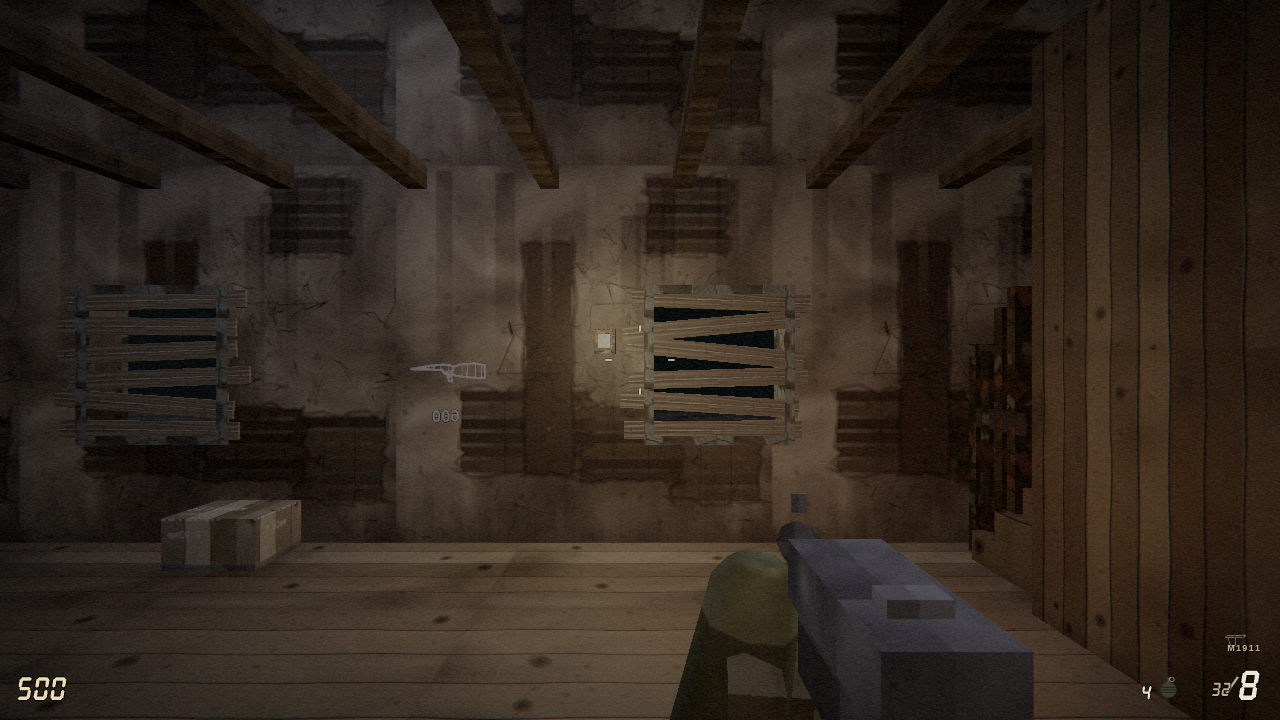
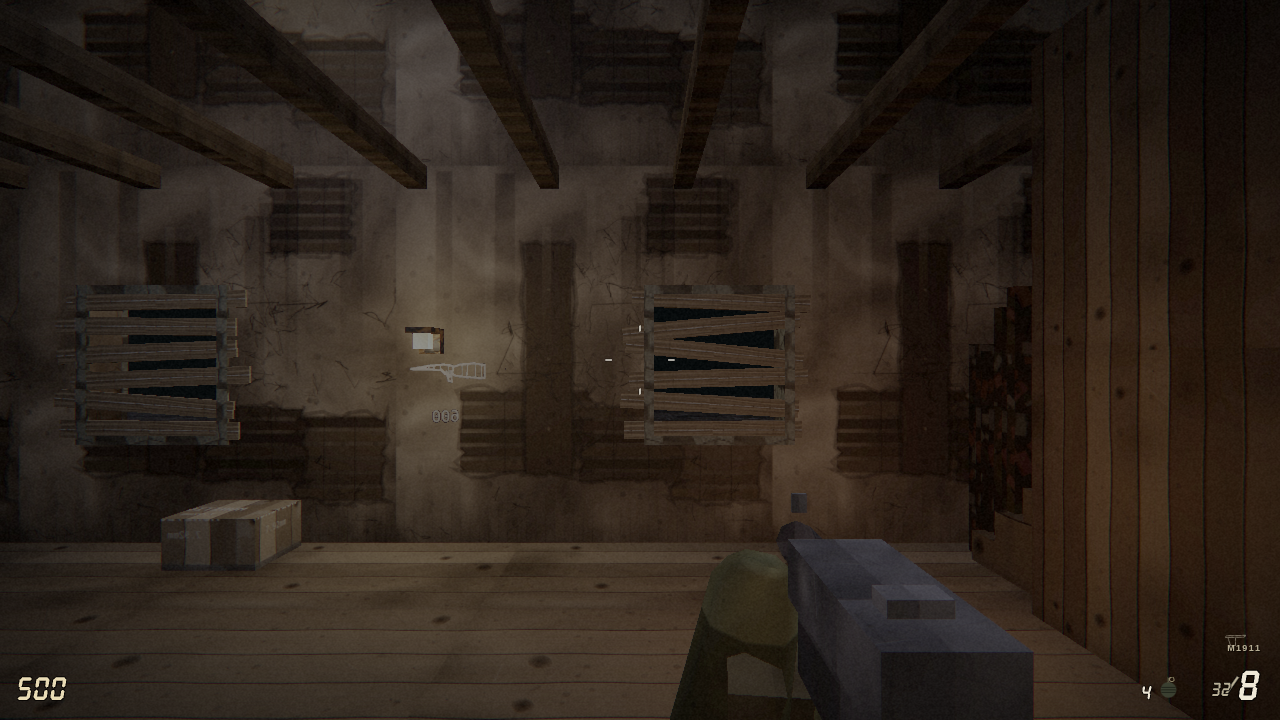
feat: spread the sconces to every room, and stop putting them on windows
Round nine's finding was that the previous round spent its whole fixture
budget on the one room that already had the most light — three sconces all
went into the main hall, which already had main_bulb, west_bulb and
sw_embers, while the HELP room's Gewehr43 wall gates a 600-point weapon
with no warm source anywhere near it. The fix pattern was right; it just
was not applied map-wide. Seven more sconces: a second on the main hall's
north wall, and one each for HELP (x2), north-east, south-east, east upper
and the catwalk.

The first placement pass put three of them straight onto a window — n5, w1
and s1 — because I picked positions off room extents instead of off the
window list. It only surfaced because one screenshot happened to frame the
HELP room fixture sitting inside a boarded window. check-level.mjs now
asserts that no sconce sits within a metre of any window, so this cannot
recur silently; every position is now chosen in a gap between two windows.

The fittings also gained a shade and a slightly larger glass. At 0.096 m
across with nothing above them they read as a bright dot rather than a
lamp, which defeated the point of mounting them at eye height.

One thing round nine got wrong, and it changed the fix: it read the stated
"world 6792 tris" as a ceiling and recommended a lights-only workaround to
preserve headroom. That was a measurement, not a budget — 7k world
triangles is nothing, and the whole scene at round 15 is 33k. Draw calls
[…]

diff --git a/nacht_der_untoten.artifact.html b/nacht_der_untoten.artifact.html
@@ -7831,7 +7831,7 @@ Z.assert = function (cond, msg) {
 }());
 
 
-/* ============================ 09_level.js (818 lines) ============================ */
+/* ============================ 09_level.js (841 lines) ============================ */
 // ---------------------------------------------------------------------------
 // 09_level.js — Nacht der Untoten.
 //
@@ -8399,9 +8399,9 @@ Z.assert = function (cond, msg) {
     }
 
     // Window n1, the Kar98k corridor, had no flanking clutter at all.
-    clutter([-9.35, 0, Z0 + 0.14], [-8.62, 0.42, Z0 + 0.74], 'crate_wood',
+    clutter([-9.55, 0, Z0 + 0.14], [-8.92, 0.42, Z0 + 0.74], 'crate_wood',
       { uvScale: 1.15, lowProfile: true });
-    clutter([-9.2, 0.42, Z0 + 0.2], [-8.7, 0.80, Z0 + 0.68], 'crate_wood', { uvScale: 1.35 });
+    clutter([-9.42, 0.42, Z0 + 0.2], [-8.98, 0.80, Z0 + 0.68], 'crate_wood', { uvScale: 1.35 });
     clutter([-6.55, 0, Z0 + 0.16], [-6.05, 0.40, Z0 + 0.66], 'crate_wood',
       { uvScale: 1.25, lowProfile: true });
 
@@ -8503,16 +8503,39 @@ Z.assert = function (cond, msg) {
       box([Math.min(x, ax) - 0.018, y + 0.02, Math.min(z, az) - 0.018],
         [Math.max(x, ax) + 0.018, y + 0.055, Math.max(z, az) + 0.018],
         'barrel_metal', { uvScale: 6, solid: false });
-      // glass, self-lit
+      // glass, self-lit, with a shade over it — at 0.096 m across and no
+      // shade the fitting read as a bright dot rather than a lamp from across
+      // the room, which was the whole point of putting it at eye height.
       const gx = x + n[0] * 0.19, gz = z + n[2] * 0.19;
-      box([gx - 0.048, y - 0.055, gz - 0.048], [gx + 0.048, y + 0.052, gz + 0.048],
+      box([gx - 0.062, y - 0.070, gz - 0.062], [gx + 0.062, y + 0.062, gz + 0.062],
         'bulb_glass', { uvScale: 1, solid: false });
+      box([gx - 0.105, y + 0.062, gz - 0.105], [gx + 0.105, y + 0.108, gz + 0.105],
+        'barrel_metal', { uvScale: 4, solid: false });
       lights.push({ pos: [gx, y, gz], color: [1.00, 0.68, 0.31], radius: 7.6,
         intensity: 1.30, flicker: 0.30, name: name });
     }
+    // Placed in the gaps BETWEEN windows. First pass put three of these on top
+    // of a window each — n5, w1 and s1 — because the positions were picked off
+    // room extents rather than off the window list.
+    // north wall, main: windows at -7.6, -3.4, 0.6
     sconce(-1.4, 1.78, Z0 + 0.12, [0, 0, 1], 'hall_sconce_n');
-    sconce(X0 + 0.12, 1.78, -4.6, [1, 0, 0], 'hall_sconce_w');
-    sconce(-5.2, 1.78, Z1 - 0.12, [0, 0, -1], 'hall_sconce_s');
+    sconce(-5.5, 1.78, Z0 + 0.12, [0, 0, 1], 'hall_sconce_n2');
+    // west wall, main: windows at z -4.6 and 0.4
+    sconce(X0 + 0.12, 1.78, -2.1, [1, 0, 0], 'hall_sconce_w');
+    // south wall, main: windows at -6.2 and -1.2
+    sconce(-3.7, 1.78, Z1 - 0.12, [0, 0, -1], 'hall_sconce_s');
+    // The other rooms had the same structural problem and none of the fix.
+    // The HELP room's Gewehr43 wall in particular gates a 600-point weapon
+    // and had no warm source anywhere near it.
+    // HELP room north wall: windows at -6.0 and -1.0
+    sconce(-3.5, UP + 1.78, Z0 + 0.12, [0, 0, 1], 'help_sconce_n');
+    sconce(X0 + 0.12, UP + 1.78, -5.6, [1, 0, 0], 'help_sconce_w');
+    // north-east room: window n4 at 6.4, and this belongs east of the divider
+    sconce(4.8, 1.78, Z0 + 0.12, [0, 0, 1], 'ne_sconce_n');
+    // south-east room: window e1 at z 5.2
+    sconce(X1 - 0.12, 1.78, 2.4, [-1, 0, 0], 'se_sconce_e');
+    sconce(X1 - 0.12, UP + 1.78, -1.2, [-1, 0, 0], 'eastup_sconce_e');
+    sconce(-2.2, UP + 1.78, Z1 - 0.12, [0, 0, -1], 'catwalk_sconce_s');
 
     // Every warm emitter was a bare point light with no geometry, so the rooms
     // had pools of amber coming from nowhere. The hanging bulb on its cord is

diff --git a/nacht_der_untoten.html b/nacht_der_untoten.html
@@ -7838,7 +7838,7 @@ Z.assert = function (cond, msg) {
 }());
 
 
-/* ============================ 09_level.js (818 lines) ============================ */
+/* ============================ 09_level.js (841 lines) ============================ */
 // ---------------------------------------------------------------------------
 // 09_level.js — Nacht der Untoten.
 //
@@ -8406,9 +8406,9 @@ Z.assert = function (cond, msg) {
     }
 
     // Window n1, the Kar98k corridor, had no flanking clutter at all.
-    clutter([-9.35, 0, Z0 + 0.14], [-8.62, 0.42, Z0 + 0.74], 'crate_wood',
+    clutter([-9.55, 0, Z0 + 0.14], [-8.92, 0.42, Z0 + 0.74], 'crate_wood',
       { uvScale: 1.15, lowProfile: true });
-    clutter([-9.2, 0.42, Z0 + 0.2], [-8.7, 0.80, Z0 + 0.68], 'crate_wood', { uvScale: 1.35 });
+    clutter([-9.42, 0.42, Z0 + 0.2], [-8.98, 0.80, Z0 + 0.68], 'crate_wood', { uvScale: 1.35 });
     clutter([-6.55, 0, Z0 + 0.16], [-6.05, 0.40, Z0 + 0.66], 'crate_wood',
       { uvScale: 1.25, lowProfile: true });
 
@@ -8510,16 +8510,39 @@ Z.assert = function (cond, msg) {
       box([Math.min(x, ax) - 0.018, y + 0.02, Math.min(z, az) - 0.018],
         [Math.max(x, ax) + 0.018, y + 0.055, Math.max(z, az) + 0.018],
         'barrel_metal', { uvScale: 6, solid: false });
-      // glass, self-lit
+      // glass, self-lit, with a shade over it — at 0.096 m across and no
+      // shade the fitting read as a bright dot rather than a lamp from across
+      // the room, which was the whole point of putting it at eye height.
       const gx = x + n[0] * 0.19, gz = z + n[2] * 0.19;
-      box([gx - 0.048, y - 0.055, gz - 0.048], [gx + 0.048, y + 0.052, gz + 0.048],
+      box([gx - 0.062, y - 0.070, gz - 0.062], [gx + 0.062, y + 0.062, gz + 0.062],
         'bulb_glass', { uvScale: 1, solid: false });
+      box([gx - 0.105, y + 0.062, gz - 0.105], [gx + 0.105, y + 0.108, gz + 0.105],
+        'barrel_metal', { uvScale: 4, solid: false });
       lights.push({ pos: [gx, y, gz], color: [1.00, 0.68, 0.31], radius: 7.6,
         intensity: 1.30, flicker: 0.30, name: name });
     }
+    // Placed in the gaps BETWEEN windows. First pass put three of these on top
+    // of a window each — n5, w1 and s1 — because the positions were picked off
+    // room extents rather than off the window list.
+    // north wall, main: windows at -7.6, -3.4, 0.6
     sconce(-1.4, 1.78, Z0 + 0.12, [0, 0, 1], 'hall_sconce_n');
-    sconce(X0 + 0.12, 1.78, -4.6, [1, 0, 0], 'hall_sconce_w');
-    sconce(-5.2, 1.78, Z1 - 0.12, [0, 0, -1], 'hall_sconce_s');
+    sconce(-5.5, 1.78, Z0 + 0.12, [0, 0, 1], 'hall_sconce_n2');
+    // west wall, main: windows at z -4.6 and 0.4
+    sconce(X0 + 0.12, 1.78, -2.1, [1, 0, 0], 'hall_sconce_w');
+    // south wall, main: windows at -6.2 and -1.2
+    sconce(-3.7, 1.78, Z1 - 0.12, [0, 0, -1], 'hall_sconce_s');
+    // The other rooms had the same structural problem and none of the fix.
+    // The HELP room's Gewehr43 wall in particular gates a 600-point weapon
+    // and had no warm source anywhere near it.
+    // HELP room north wall: windows at -6.0 and -1.0
+    sconce(-3.5, UP + 1.78, Z0 + 0.12, [0, 0, 1], 'help_sconce_n');
+    sconce(X0 + 0.12, UP + 1.78, -5.6, [1, 0, 0], 'help_sconce_w');
+    // north-east room: window n4 at 6.4, and this belongs east of the divider
+    sconce(4.8, 1.78, Z0 + 0.12, [0, 0, 1], 'ne_sconce_n');
+    // south-east room: window e1 at z 5.2
+    sconce(X1 - 0.12, 1.78, 2.4, [-1, 0, 0], 'se_sconce_e');
+    sconce(X1 - 0.12, UP + 1.78, -1.2, [-1, 0, 0], 'eastup_sconce_e');
+    sconce(-2.2, UP + 1.78, Z1 - 0.12, [0, 0, -1], 'catwalk_sconce_s');
 
     // Every warm emitter was a bare point light with no geometry, so the rooms
     // had pools of amber coming from nowhere. The hanging bulb on its cord is

diff --git a/src/game/09_level.js b/src/game/09_level.js
@@ -565,9 +565,9 @@
     }
 
     // Window n1, the Kar98k corridor, had no flanking clutter at all.
-    clutter([-9.35, 0, Z0 + 0.14], [-8.62, 0.42, Z0 + 0.74], 'crate_wood',
+    clutter([-9.55, 0, Z0 + 0.14], [-8.92, 0.42, Z0 + 0.74], 'crate_wood',
       { uvScale: 1.15, lowProfile: true });
-    clutter([-9.2, 0.42, Z0 + 0.2], [-8.7, 0.80, Z0 + 0.68], 'crate_wood', { uvScale: 1.35 });
+    clutter([-9.42, 0.42, Z0 + 0.2], [-8.98, 0.80, Z0 + 0.68], 'crate_wood', { uvScale: 1.35 });
     clutter([-6.55, 0, Z0 + 0.16], [-6.05, 0.40, Z0 + 0.66], 'crate_wood',
       { uvScale: 1.25, lowProfile: true });
 
@@ -669,16 +669,39 @@
       box([Math.min(x, ax) - 0.018, y + 0.02, Math.min(z, az) - 0.018],
         [Math.max(x, ax) + 0.018, y + 0.055, Math.max(z, az) + 0.018],
         'barrel_metal', { uvScale: 6, solid: false });
-      // glass, self-lit
+      // glass, self-lit, with a shade over it — at 0.096 m across and no
+      // shade the fitting read as a bright dot rather than a lamp from across
+      // the room, which was the whole point of putting it at eye height.
       const gx = x + n[0] * 0.19, gz = z + n[2] * 0.19;
-      box([gx - 0.048, y - 0.055, gz - 0.048], [gx + 0.048, y + 0.052, gz + 0.048],
+      box([gx - 0.062, y - 0.070, gz - 0.062], [gx + 0.062, y + 0.062, gz + 0.062],
         'bulb_glass', { uvScale: 1, solid: false });
+      box([gx - 0.105, y + 0.062, gz - 0.105], [gx + 0.105, y + 0.108, gz + 0.105],
+        'barrel_metal', { uvScale: 4, solid: false });
       lights.push({ pos: [gx, y, gz], color: [1.00, 0.68, 0.31], radius: 7.6,
         intensity: 1.30, flicker: 0.30, name: name });
     }
+    // Placed in the gaps BETWEEN windows. First pass put three of these on top
+    // of a window each — n5, w1 and s1 — because the positions were picked off
+    // room extents rather than off the window list.
+    // north wall, main: windows at -7.6, -3.4, 0.6
     sconce(-1.4, 1.78, Z0 + 0.12, [0, 0, 1], 'hall_sconce_n');
-    sconce(X0 + 0.12, 1.78, -4.6, [1, 0, 0], 'hall_sconce_w');
-    sconce(-5.2, 1.78, Z1 - 0.12, [0, 0, -1], 'hall_sconce_s');
+    sconce(-5.5, 1.78, Z0 + 0.12, [0, 0, 1], 'hall_sconce_n2');
+    // west wall, main: windows at z -4.6 and 0.4
+    sconce(X0 + 0.12, 1.78, -2.1, [1, 0, 0], 'hall_sconce_w');
+    // south wall, main: windows at -6.2 and -1.2
+    sconce(-3.7, 1.78, Z1 - 0.12, [0, 0, -1], 'hall_sconce_s');
+    // The other rooms had the same structural problem and none of the fix.
+    // The HELP room's Gewehr43 wall in particular gates a 600-point weapon
+    // and had no warm source anywhere near it.
+    // HELP room north wall: windows at -6.0 and -1.0
+    sconce(-3.5, UP + 1.78, Z0 + 0.12, [0, 0, 1], 'help_sconce_n');
+    sconce(X0 + 0.12, UP + 1.78, -5.6, [1, 0, 0], 'help_sconce_w');
+    // north-east room: window n4 at 6.4, and this belongs east of the divider
+    sconce(4.8, 1.78, Z0 + 0.12, [0, 0, 1], 'ne_sconce_n');
+    // south-east room: window e1 at z 5.2
+    sconce(X1 - 0.12, 1.78, 2.4, [-1, 0, 0], 'se_sconce_e');
+    sconce(X1 - 0.12, UP + 1.78, -1.2, [-1, 0, 0], 'eastup_sconce_e');
+    sconce(-2.2, UP + 1.78, Z1 - 0.12, [0, 0, -1], 'catwalk_sconce_s');
 
     // Every warm emitter was a bare point light with no geometry, so the rooms
     // had pools of amber coming from nowhere. The hanging bulb on its cord is
